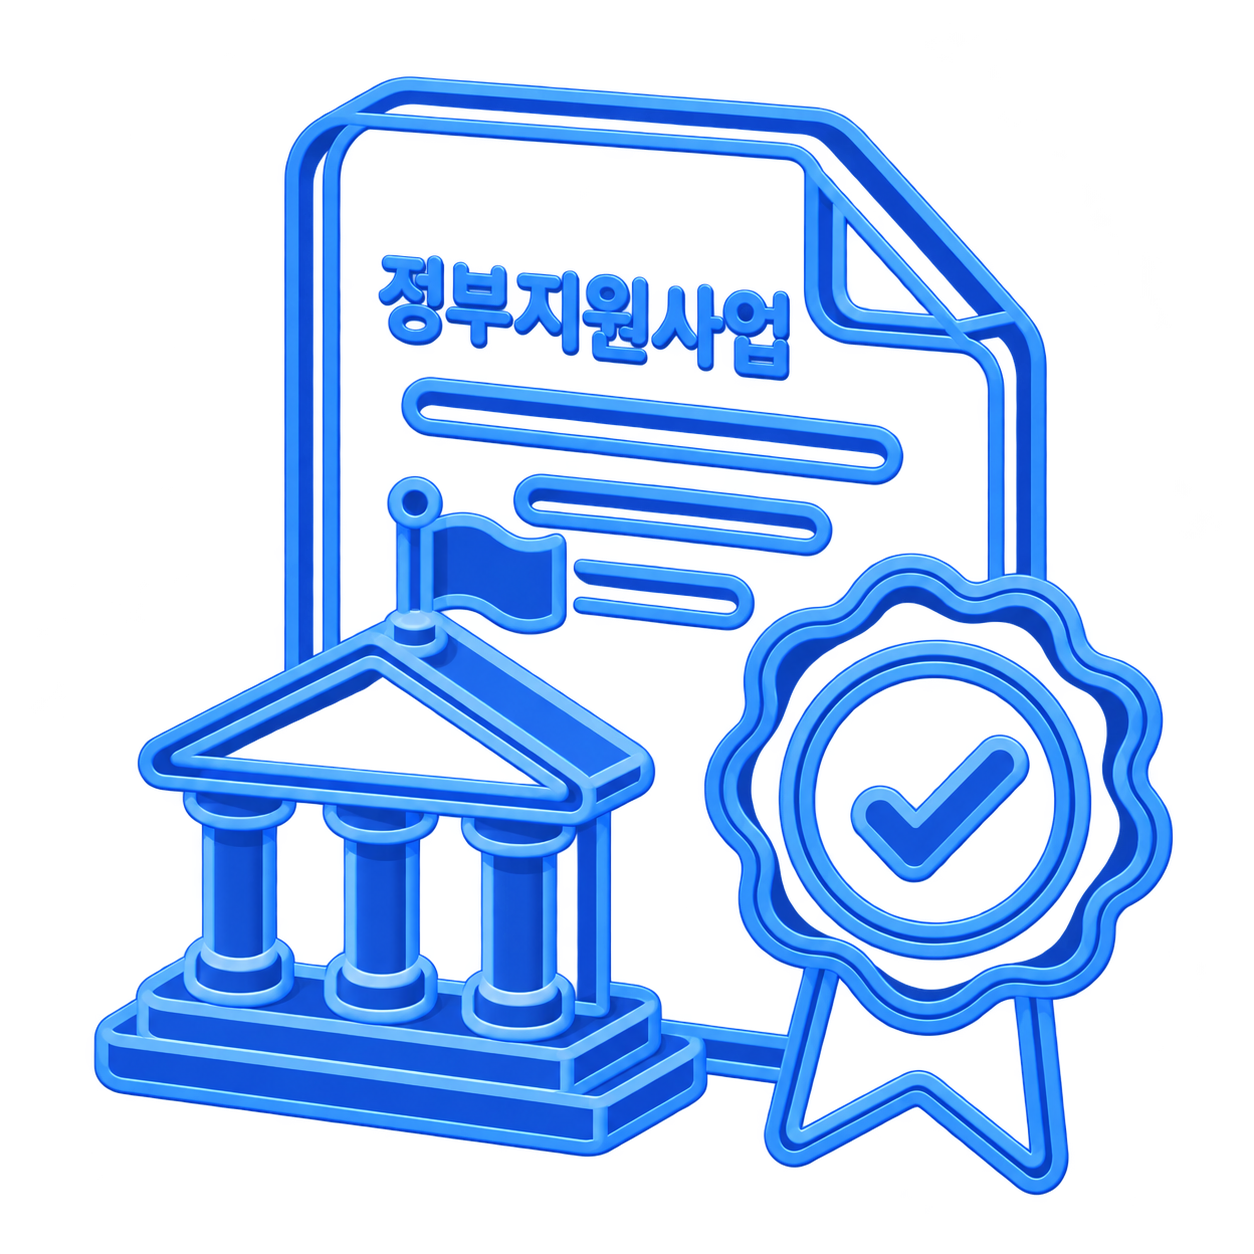
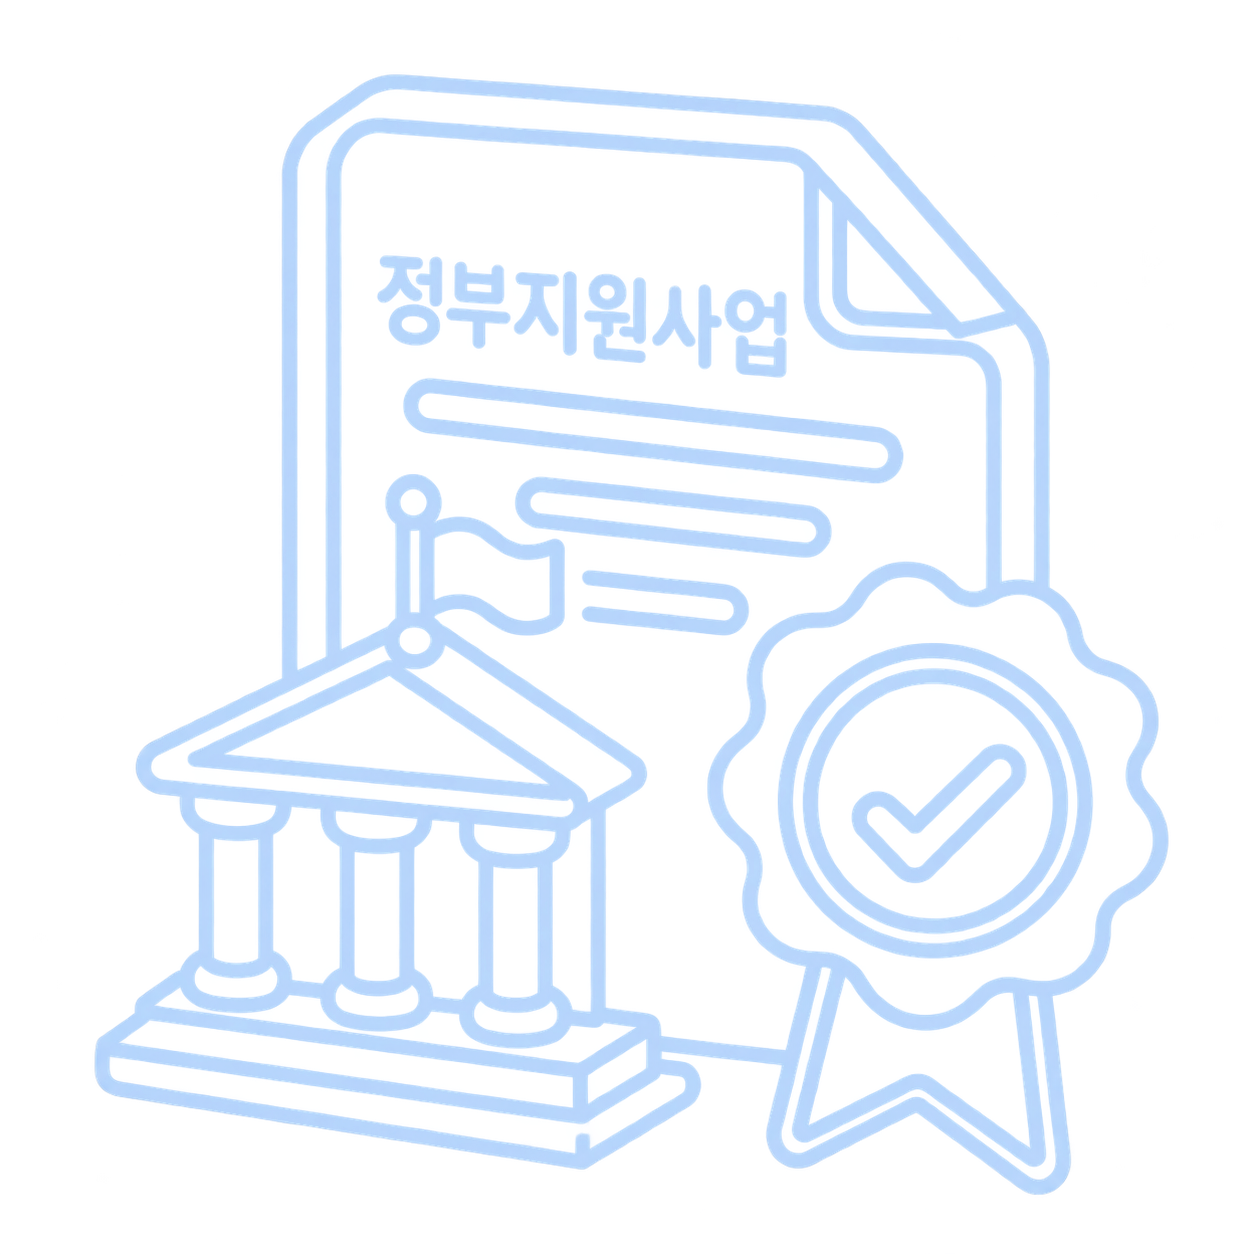
Refine sky-blue branding and improve visual readability

diff --git a/src/components/renewal/renewal.css b/src/components/renewal/renewal.css
@@ -447,6 +447,13 @@
   object-fit: cover;
   object-position: center;
 }
+.dw-home-hero::after {
+  content: "";
+  position: absolute;
+  inset: 0;
+  background: linear-gradient(90deg, rgba(255, 255, 255, 0.68), rgba(255, 255, 255, 0.38));
+  pointer-events: none;
+}
 .dw-home-hero > .dw-container {
   z-index: 1;
 }
@@ -660,7 +667,7 @@
   height: calc(193 * var(--u));
   right: 0;
   bottom: 0;
-  opacity: 0.3;
+  opacity: 1;
 }
 .dw-government-feature h3,
 .dw-government-small h3 {
@@ -3576,7 +3583,7 @@
   background-image: var(--about-hero);
   background-position: center;
   background-size: cover;
-  opacity: 0.3;
+  opacity: 0.2;
 }
 .dw-about-hero-grid {
   height: 100%;
@@ -3610,6 +3617,7 @@
   position: absolute;
   inset: 0;
   background-image: var(--about-story);
+  opacity: 0.2;
   background-position: center top;
   background-size: cover;
   pointer-events: none;
@@ -3699,7 +3707,7 @@
   background-image: var(--about-services);
   background-position: center;
   background-size: cover;
-  opacity: 0.3;
+  opacity: 0.2;
 }
 .dw-about-services-orb {
   position: absolute;
@@ -3708,13 +3716,13 @@
   left: 50%;
   top: calc(81 * var(--u));
   translate: -50% 0;
-  opacity: 0.5;
+  opacity: 0.2;
 }
 .dw-about-bubbles .dw-art {
   position: absolute;
   width: calc(30 * var(--u));
   height: calc(30 * var(--u));
-  opacity: 0.5;
+  opacity: 0.2;
 }
 .dw-about-bubbles .dw-art:nth-child(1) {
   left: 23%;

diff --git a/index.html b/index.html
@@ -9,8 +9,8 @@
       content="아이원디지털웨어 — 비즈니스에 최적화된 SI 개발, 데이터 마이그레이션, PMS 솔루션"
     />
     <title>아이원디지털웨어 | Business Technology Integrator</title>
-    <link rel="icon" type="image/png" href="%BASE_URL%favicon.png" />
-    <link rel="apple-touch-icon" href="%BASE_URL%favicon.png" />
+    <link rel="icon" type="image/png" href="%BASE_URL%favicon.png?v=4b90e2" />
+    <link rel="apple-touch-icon" href="%BASE_URL%favicon.png?v=4b90e2" />
     <meta property="og:type" content="website" />
     <meta property="og:locale" content="ko_KR" />
     <meta property="og:site_name" content="아이원디지털웨어" />
@@ -24,13 +24,13 @@
     />
     <meta
       property="og:image"
-      content="https://leejinho970715-star.github.io/digital_ware_ver.2/og-image.png"
+      content="https://leejinho970715-star.github.io/digital_ware_ver.2/og-image.png?v=4b90e2"
     />
     <meta property="og:image:alt" content="아이원디지털웨어 브랜드 이미지" />
     <meta name="twitter:card" content="summary_large_image" />
     <meta
       name="twitter:image"
-      content="https://leejinho970715-star.github.io/digital_ware_ver.2/og-image.png"
+      content="https://leejinho970715-star.github.io/digital_ware_ver.2/og-image.png?v=4b90e2"
     />
     <link
       rel="preload"

diff --git a/src/pages/portal/page.tsx b/src/pages/portal/page.tsx
@@ -108,7 +108,7 @@ function Shell({ page, children }: { page: PageKey; children: ReactNode }) {
       <section
         className="dw-portal-hero"
         style={{
-          backgroundImage: `url(${import.meta.env.BASE_URL}assets/subvisual/${info.hero})`,
+          backgroundImage: `linear-gradient(rgba(255, 255, 255, 0.5), rgba(255, 255, 255, 0.5)), url(${import.meta.env.BASE_URL}assets/subvisual/${info.hero})`,
         }}
         aria-label={info.section}
       >

diff --git a/src/components/renewal/ui.tsx b/src/components/renewal/ui.tsx
@@ -330,7 +330,7 @@ export function Contact({ page }: { page: "si" | "migration" | "pms" }) {
     <section
       className="dw-contact"
       style={{
-        backgroundImage: `url(${import.meta.env.BASE_URL}assets/contact-bg.png)`,
+        backgroundImage: `linear-gradient(rgba(255, 255, 255, 0.78), rgba(255, 255, 255, 0.78)), url(${import.meta.env.BASE_URL}assets/contact-bg.png)`,
       }}
     >
       <div className="dw-container dw-center" data-reveal>

diff --git a/docs/BLUE-THEME.md b/docs/BLUE-THEME.md
@@ -25,6 +25,29 @@ SVG는 도형과 좌표를 보존하고 색상 값만 변경합니다.
 각 이미지의 원래 크기, 투명 배경 여부, 스프라이트 위치 보존 조건을 추가했습니다.
 AI 편집 특성상 재질과 미세한 디테일은 원본과 차이가 있을 수 있습니다.
 
+## 로고 색상 후속 적용
+
+로고의 브랜드 강조색은 `#4B90E2`로 통일합니다. 내장 AI 이미지 편집으로
+헤더 로고, 푸터 로고, 파비콘, OG 이미지를 각각 생성했습니다.
+저장 경로: `public/assets/figma/{home,si,migration,pms}-{Logo,WhiteLogo}.png`,
+`public/favicon.png`, `public/og-image.png`.
+
+프롬프트 조건: 기존 글자와 구도를 보존하고 I-ONE 및 아이원의 색을 단색
+`#4B90E2`로 변경. 헤더의 검정 글자와 푸터의 흰색 글자를 보존하고
+투명 배경 유지. 파비콘과 OG 이미지의 심벌·리본은 `#4B90E2`를
+주색으로, 같은 색조의 하이라이트와 그림자 적용. 기존 문구와 형태 유지.
+파비콘·Apple 터치 아이콘·OG·Twitter 이미지 URL에 색상 버전을 포함합니다.
+
+## 가독성 후속 조정
+
+- 메인 영상: 흰색 그라데이션 필터 68% → 38%로 텍스트 뒤를 밝게 처리.
+- 일반 서브비주얼: 흰색 필터 50%, 기업소개 장식 배경: 불투명도 20%.
+- 서비스 하단 문의 배너: 흰색 필터 78%, 글자와 버튼은 불투명도 유지.
+- 정부지원사업 세 이미지(`home-Icon2.png`, `home-Icon3.png`, `home-Image.png`):
+  내장 AI 편집으로 연한 블루 `#BDD6F3` 윤곽선 스타일로 재생성.
+  프롬프트: 기존 소재와 구도를 보존하고 동일한 가는 단색 선으로 단순화.
+  투명 배경, 면 채움·입체 음영·그라데이션·광택·중복 윤곽선 제외.
+
 ## 메인 영상
 
 사용자가 제공한 `visual_video.mp4`를 재인코딩 없이
